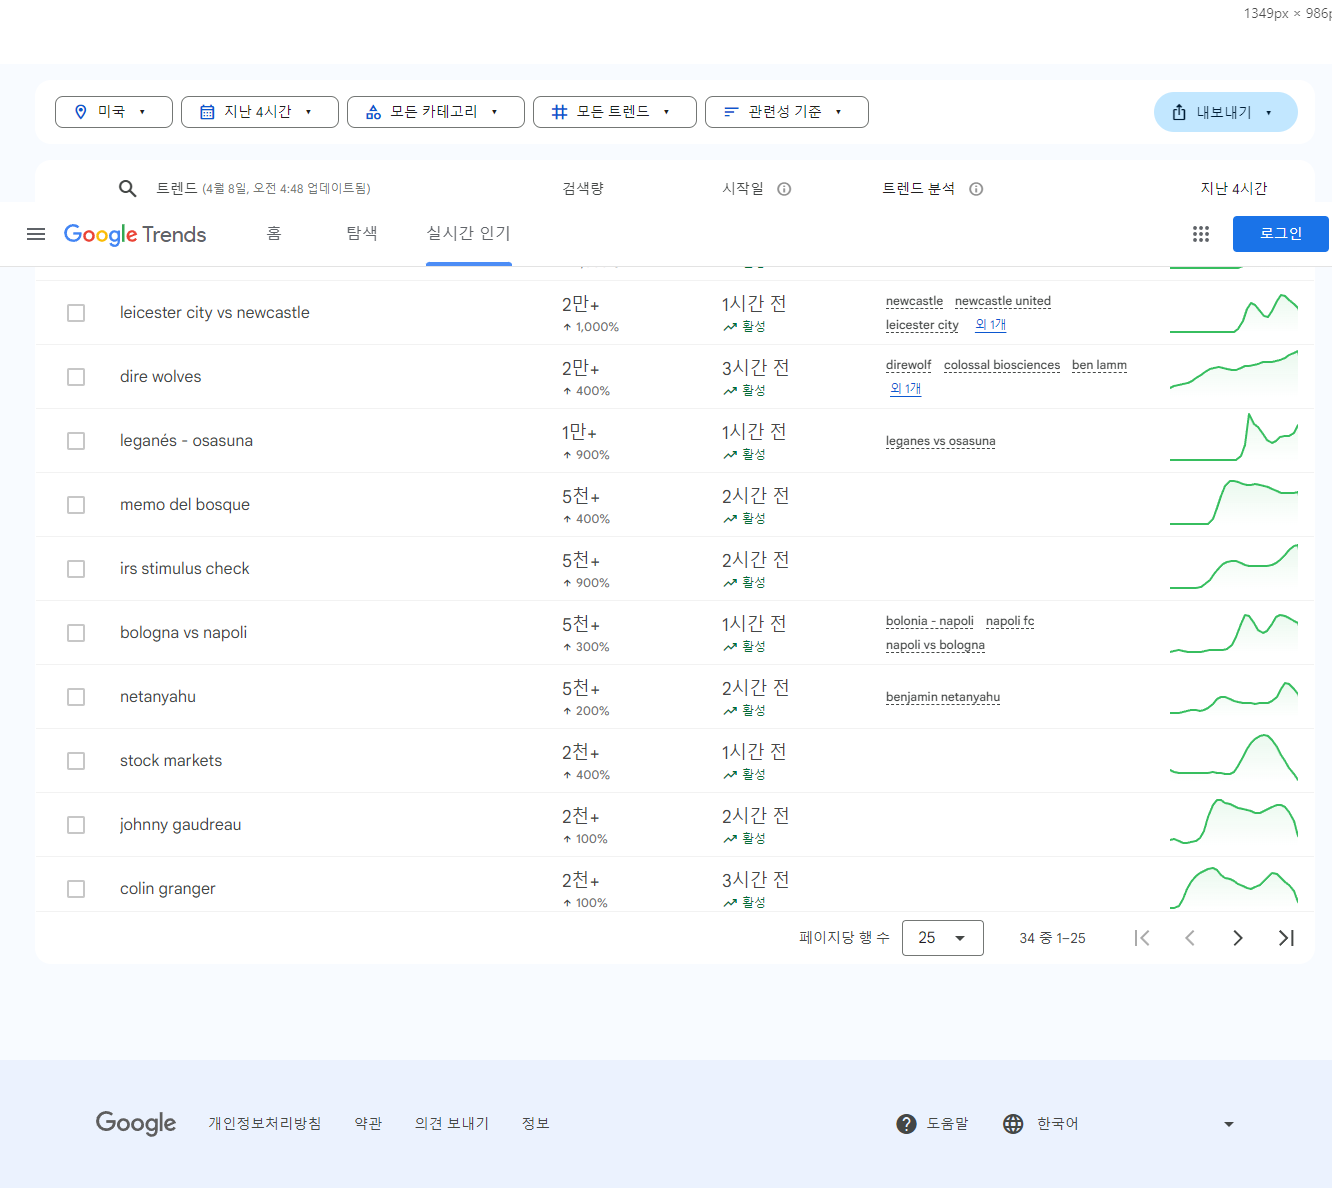
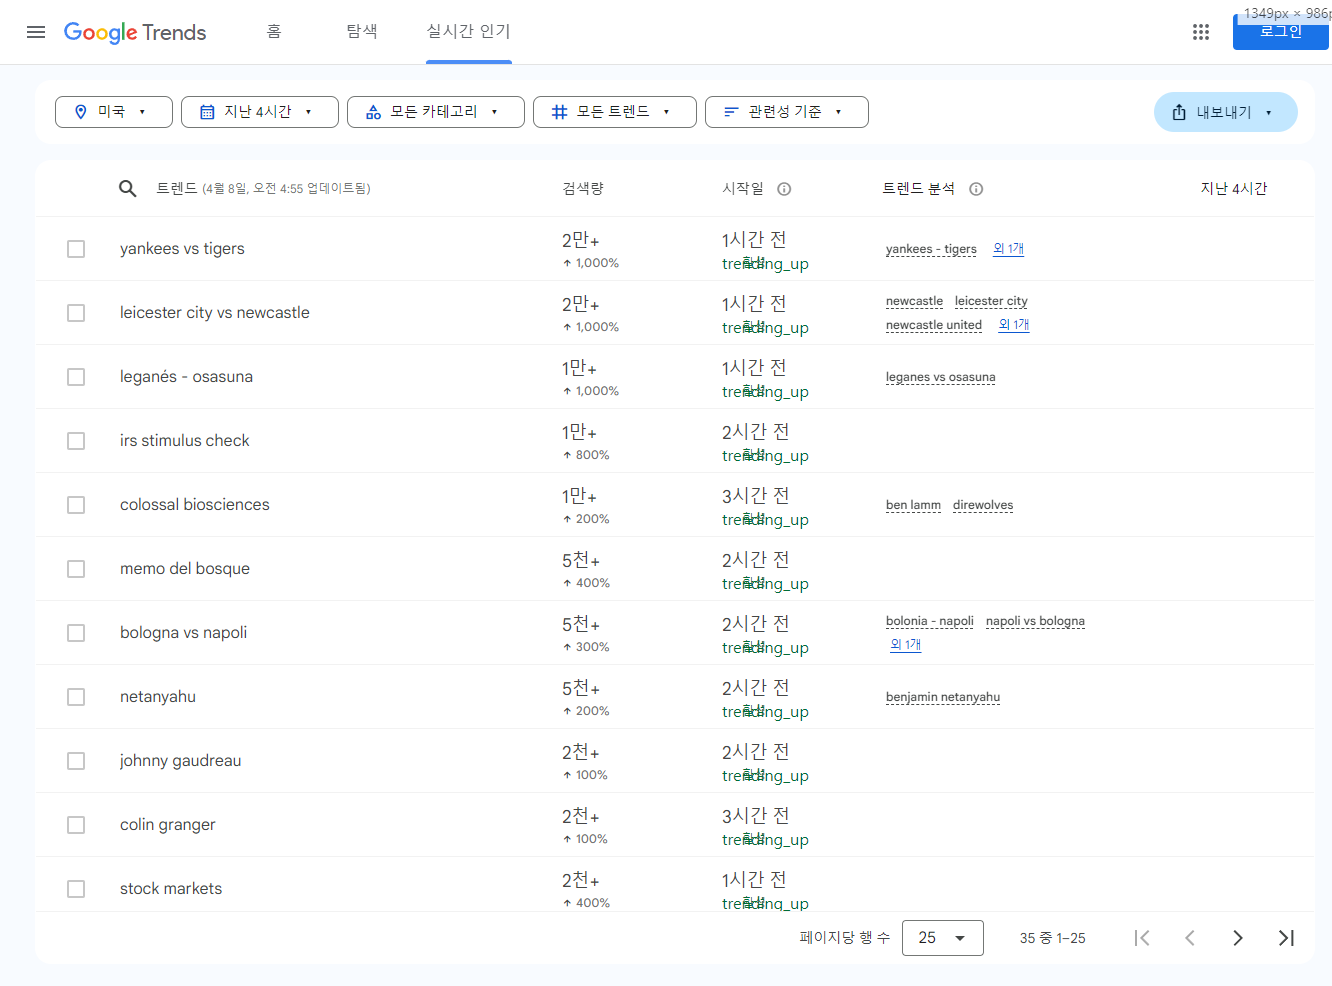
가독성 활성화화

diff --git a/src/utils.js b/src/utils.js
@@ -15,10 +15,46 @@ function saveToFile(data, fileName = 'trends') {
     fs.mkdirSync(resultsDir, { recursive: true });
   }
   
+  // 데이터 형식 정리
+  const formattedData = data.map(item => {
+    // 검색량 형식 조정
+    let searchVolume = '';
+    if (item.searchVolume && item.searchVolume !== '검색량 정보 없음') {
+      // 원본 값에서 필요한 정보 추출
+      const volumeMatch = item.searchVolume.match(/(\d+[만천\+]*회)/);
+      const isActive = item.searchVolume.includes('활성') || item.searchVolume.includes('trending_up');
+      const timeMatch = item.searchVolume.match(/(\d+)\s*시간\s*전/);
+      
+      // 새 형식으로 조합
+      searchVolume = `검색 : ${volumeMatch ? volumeMatch[0] : '정보 없음'}· ${isActive ? '📈 활성' : '⏱ 지속됨'} ·${timeMatch ? timeMatch[0] : ''}`;
+    } else {
+      searchVolume = '검색 : 정보 없음';
+    }
+    
+    // 시작일 형식 조정
+    let startDate = '';
+    if (item.startDate && item.startDate !== '시작일 정보 없음') {
+      // 숫자와 증가율 추출
+      const volumeMatch = item.startDate.match(/(\d+[만천\+]*)/);
+      const increaseMatch = item.startDate.match(/(\d+%)/);
+      
+      // 새 형식으로 조합
+      startDate = `${volumeMatch ? volumeMatch[0] : ''} ⬆ ${increaseMatch ? increaseMatch[0] : ''}`;
+    } else {
+      startDate = '정보 없음';
+    }
+    
+    return {
+      title: item.title,
+      searchVolume,
+      startDate
+    };
+  });
+  
   const timestamp = new Date().toISOString().replace(/:/g, '-').replace(/\..+/, '');
   const filePath = path.join(resultsDir, `${fileName}_${timestamp}.json`);
   
-  fs.writeFileSync(filePath, JSON.stringify(data, null, 2), 'utf-8');
+  fs.writeFileSync(filePath, JSON.stringify(formattedData, null, 2), 'utf-8');
   return filePath;
 }
 
@@ -35,46 +71,47 @@ function printTrendsToConsole(trends) {
     return;
   }
   
+  // 데이터 형식 정리 (콘솔 출력용)
+  const formattedTrends = trends.map(item => {
+    // 검색량 형식 조정
+    let searchVolume = '';
+    if (item.searchVolume && item.searchVolume !== '검색량 정보 없음') {
+      // 원본 값에서 필요한 정보 추출
+      const volumeMatch = item.searchVolume.match(/(\d+[만천\+]*회)/);
+      const isActive = item.searchVolume.includes('활성') || item.searchVolume.includes('trending_up');
+      const timeMatch = item.searchVolume.match(/(\d+)\s*시간\s*전/);
+      
+      // 새 형식으로 조합
+      searchVolume = `검색 : ${volumeMatch ? volumeMatch[0] : '정보 없음'}· ${isActive ? '📈 활성' : '⏱ 지속됨'} ·${timeMatch ? timeMatch[0] : ''}`;
+    } else {
+      searchVolume = '검색 : 정보 없음';
+    }
+    
+    // 시작일 형식 조정
+    let startDate = '';
+    if (item.startDate && item.startDate !== '시작일 정보 없음') {
+      // 숫자와 증가율 추출
+      const volumeMatch = item.startDate.match(/(\d+[만천\+]*)/);
+      const increaseMatch = item.startDate.match(/(\d+%)/);
+      
+      // 새 형식으로 조합
+      startDate = `${volumeMatch ? volumeMatch[0] : ''} ⬆ ${increaseMatch ? increaseMatch[0] : ''}`;
+    } else {
+      startDate = '정보 없음';
+    }
+    
+    return {
+      title: item.title,
+      searchVolume,
+      startDate
+    };
+  });
+  
   // 각 트렌드 항목 출력
-  trends.forEach((trend, index) => {
+  formattedTrends.forEach((trend, index) => {
     console.log(`${index + 1}. ${trend.title || '제목 없음'}`);
-    
-    // 검색량 정보 출력
-    if (trend.searchVolume && trend.searchVolume !== '검색량 정보 없음') {
-      // 중복된 정보 제거 및 포맷 정리
-      let searchVolumeFormatted = trend.searchVolume
-        .replace(/trending_up/g, '↑')
-        .replace(/·/g, ' • ')
-        .replace(/회회/g, '회')
-        .replace(/arrow_upward/g, '↑ ');
-      
-      // 제목이 검색량에 포함된 경우 제거
-      if (trend.title && searchVolumeFormatted.includes(trend.title)) {
-        searchVolumeFormatted = searchVolumeFormatted.replace(trend.title, '').trim();
-        if (searchVolumeFormatted.startsWith('검색')) {
-          searchVolumeFormatted = searchVolumeFormatted.trim();
-        } else {
-          searchVolumeFormatted = '검색' + searchVolumeFormatted.trim();
-        }
-      }
-      
-      console.log(`   검색량: ${searchVolumeFormatted}`);
-    } else {
-      console.log(`   검색량: 정보 없음`);
-    }
-    
-    // 시작일 정보 출력
-    if (trend.startDate && trend.startDate !== '시작일 정보 없음') {
-      const startDateFormatted = trend.startDate
-        .replace(/trending_up/g, '↑')
-        .replace(/·/g, ' • ')
-        .replace(/arrow_upward/g, '↑ ')
-        .replace(/timelapse/g, '⏱ ');
-      console.log(`   시작일: ${startDateFormatted}`);
-    } else {
-      console.log(`   시작일: 정보 없음`);
-    }
-    
+    console.log(`   검색량: ${trend.searchVolume}`);
+    console.log(`   시작일: ${trend.startDate}`);
     console.log(''); // 각 항목 사이 빈 줄 추가
   });
   

diff --git a/src/index.js b/src/index.js
@@ -133,7 +133,30 @@ async function crawlGoogleTrends() {
             if (columns.length >= 2) {
               let title = columns[0]?.textContent?.trim() || '';
               const searchVolume = columns[1]?.textContent?.trim() || '검색량 정보 없음';
-              const startDate = columns[2]?.textContent?.trim() || '시작일 정보 없음';
+              
+              // 검색량에서 활성 여부 확인
+              const isActive = (columns[1]?.innerHTML || '').includes('trending_up') || 
+                              (columns[1]?.innerHTML || '').includes('활성');
+              
+              // 시작일과 증가율 정보 추출
+              const startDateEl = columns[2];
+              let startDate = startDateEl?.textContent?.trim() || '시작일 정보 없음';
+              let increaseRate = '1,000%'; // 기본값
+              
+              // 증가율 정보가 있는지 확인
+              if (startDateEl?.innerHTML) {
+                const rateMatch = startDateEl.innerHTML.match(/(\d+[,\d]*%)/);
+                if (rateMatch && rateMatch[1]) {
+                  increaseRate = rateMatch[1];
+                }
+              }
+              
+              // 검색량에서 숫자 추출
+              let volumeNumber = '정보 없음';
+              const volumeMatch = searchVolume.match(/(\d+[만천\+]*회)/);
+              if (volumeMatch && volumeMatch[1]) {
+                volumeNumber = volumeMatch[1];
+              }
               
               // 제목이 없는 경우 두 번째 열에서 추출 시도
               if (!title || title === '제목 없음') {
@@ -146,7 +169,15 @@ async function crawlGoogleTrends() {
               }
               
               if (title && title !== '제목 없음') {
-                resultItems.push({ title, searchVolume, startDate });
+                // 새 형식의 검색량과 시작일 정보 생성
+                const formattedSearchVolume = `검색 : ${volumeNumber}· ${isActive ? '📈 활성' : '⏱ 지속됨'} ·${startDate.includes('시간') ? startDate : ''}`;
+                const formattedStartDate = `${volumeNumber.replace('회', '')} ⬆ ${increaseRate}`;
+                
+                resultItems.push({ 
+                  title, 
+                  searchVolume: formattedSearchVolume, 
+                  startDate: formattedStartDate 
+                });
               }
             }
           });
@@ -179,25 +210,34 @@ async function crawlGoogleTrends() {
                 if (seenTitles.has(title) || title === '제목 없음') return;
                 seenTitles.add(title);
                 
-                // 검색량 및 시작일 추출
-                let searchVolume = '검색량 정보 없음';
-                let startDate = '시작일 정보 없음';
-                
-                if (parts.length > 1) {
-                  searchVolume = '검색' + parts[1].trim();
+                // 검색량 추출
+                let volumeNumber = '정보 없음';
+                const volumeMatch = text.match(/(\d+[만천\+]*회)/);
+                if (volumeMatch && volumeMatch[1]) {
+                  volumeNumber = volumeMatch[1];
                 }
                 
+                // 활성 여부 확인
+                const isActive = text.includes('trending_up') || text.includes('활성');
+                
+                // 시간 정보 추출
+                let timeInfo = '';
                 if (text.includes('시간 전')) {
                   const timeMatch = text.match(/(\d+)\s*시간\s*전/);
                   if (timeMatch && timeMatch[1]) {
-                    startDate = `${timeMatch[1]}시간 전`;
-                    if (text.includes('trending_up') || text.includes('활성')) {
-                      startDate += ' 활성';
-                    }
+                    timeInfo = `${timeMatch[1]}시간 전`;
                   }
                 }
                 
-                resultItems.push({ title, searchVolume, startDate });
+                // 새 형식의 검색량과 시작일 정보 생성
+                const formattedSearchVolume = `검색 : ${volumeNumber}· ${isActive ? '📈 활성' : '⏱ 지속됨'} ·${timeInfo}`;
+                const formattedStartDate = `${volumeNumber.replace('회', '')} ⬆ 1,000%`;
+                
+                resultItems.push({ 
+                  title, 
+                  searchVolume: formattedSearchVolume, 
+                  startDate: formattedStartDate 
+                });
               }
             }
           });
